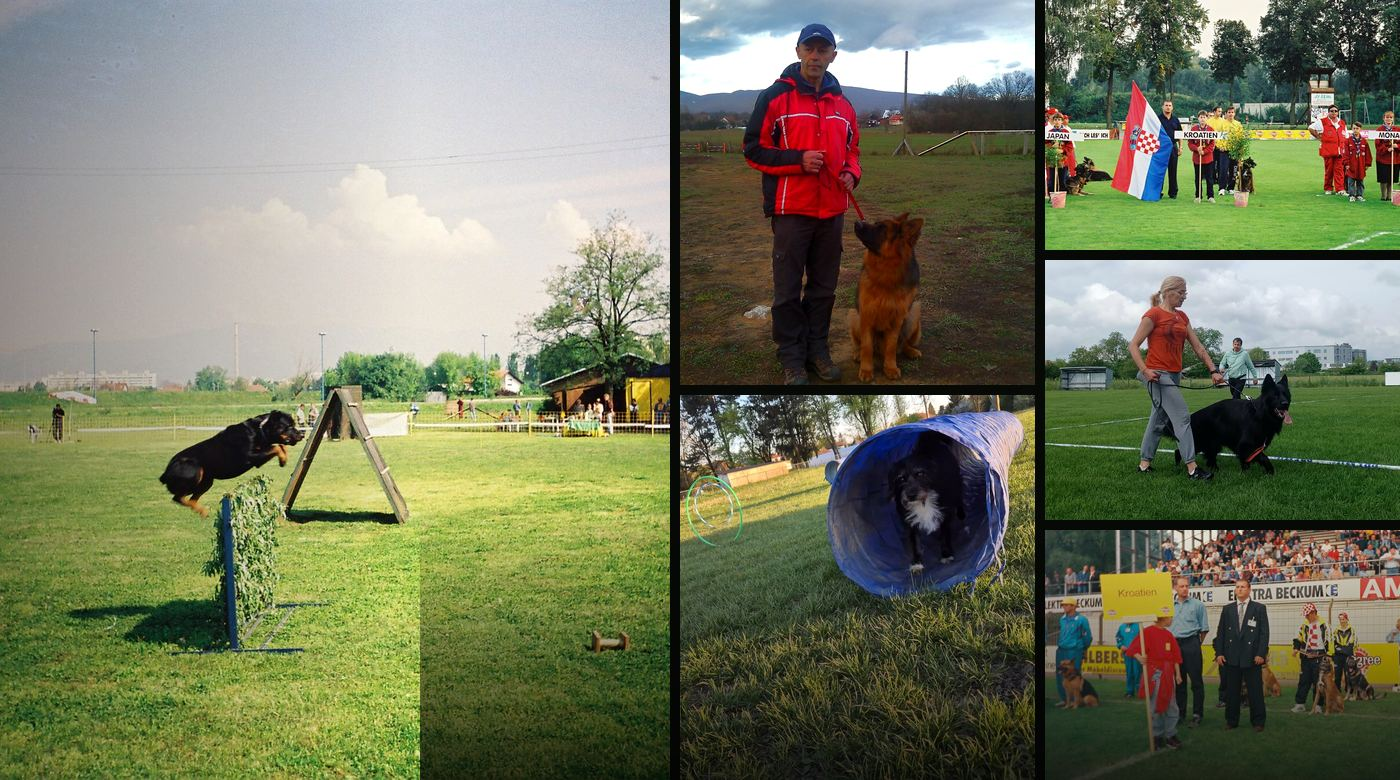
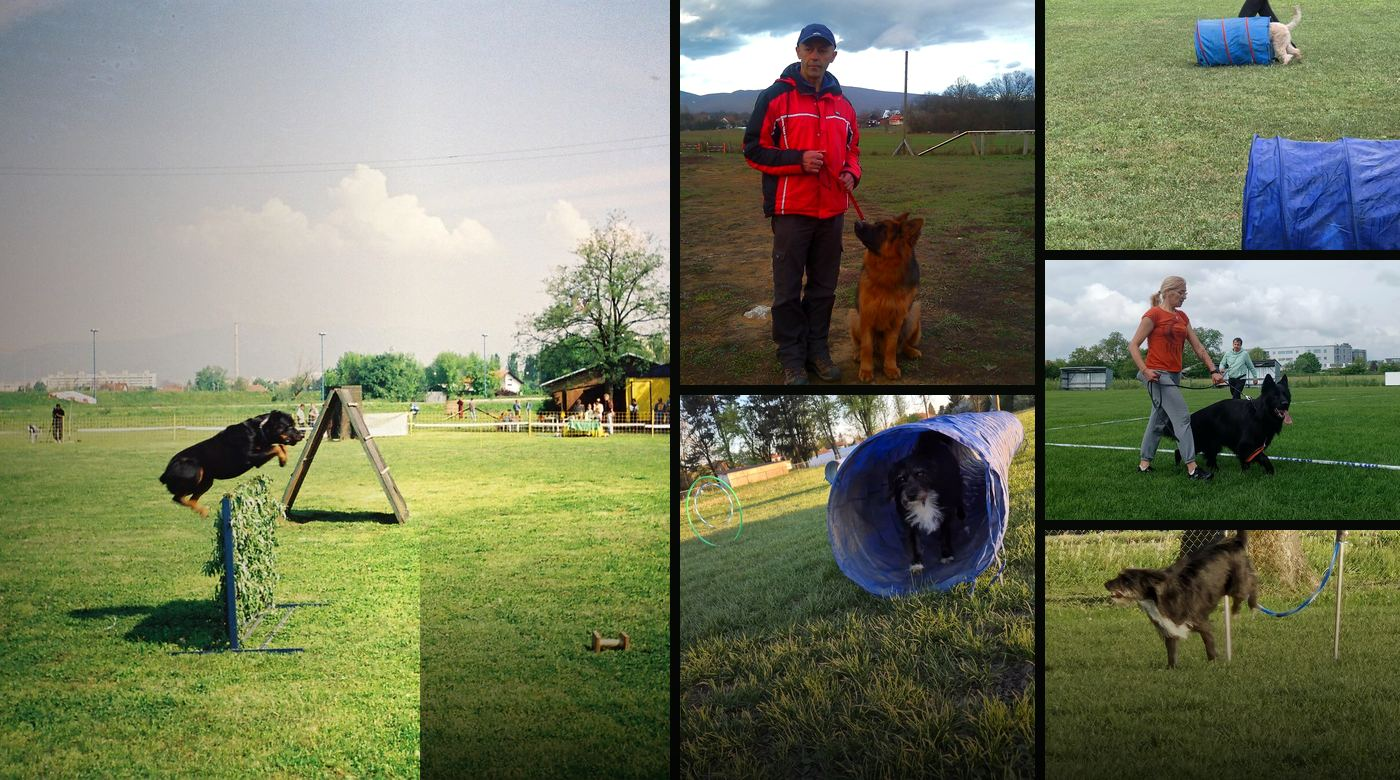
Strengthen hero silhouette, update intro copy, and split gallery into work and owner sections.

Changed region(s): [[0.7371, 0.0, 1.0, 0.3385], [0.7371, 0.6769, 1.0, 0.9846]]

diff --git a/src/components/GalleryGrid.tsx b/src/components/GalleryGrid.tsx
@@ -2,9 +2,13 @@
 
 import { useCallback, useEffect, useId, useState } from "react";
 import { useTranslations } from "next-intl";
-import { galleryImages, type GalleryImage } from "@/data/gallery";
+import type { GalleryImage } from "@/data/gallery";
 
-export function GalleryGrid() {
+type GalleryGridProps = {
+  images: GalleryImage[];
+};
+
+export function GalleryGrid({ images }: GalleryGridProps) {
   const t = useTranslations("gallery");
   const titleId = useId();
   const [active, setActive] = useState<number | null>(null);
@@ -12,12 +16,12 @@ export function GalleryGrid() {
   const close = useCallback(() => setActive(null), []);
   const showPrev = useCallback(() => {
     setActive((i) =>
-      i === null ? null : (i - 1 + galleryImages.length) % galleryImages.length,
+      i === null ? null : (i - 1 + images.length) % images.length,
     );
-  }, []);
+  }, [images.length]);
   const showNext = useCallback(() => {
-    setActive((i) => (i === null ? null : (i + 1) % galleryImages.length));
-  }, []);
+    setActive((i) => (i === null ? null : (i + 1) % images.length));
+  }, [images.length]);
 
   useEffect(() => {
     if (active === null) return;
@@ -38,12 +42,12 @@ export function GalleryGrid() {
   }, [active, close, showPrev, showNext]);
 
   const current: GalleryImage | null =
-    active === null ? null : galleryImages[active];
+    active === null ? null : images[active];
 
   return (
     <>
       <ul className="gallery-grid">
-        {galleryImages.map((image, index) => (
+        {images.map((image, index) => (
           <li key={image.id}>
             <button
               type="button"
@@ -51,14 +55,13 @@ export function GalleryGrid() {
               onClick={() => setActive(index)}
               aria-label={`${t("openImage")} ${index + 1}`}
             >
-              {/* Pre-sized JPEGs — skip /_next/image to avoid optimizer failures */}
               {/* eslint-disable-next-line @next/next/no-img-element */}
               <img
                 src={image.thumb}
                 alt=""
                 width={480}
                 height={360}
-                loading={index < 6 ? "eager" : "lazy"}
+                loading={index < 4 ? "eager" : "lazy"}
                 decoding="async"
               />
             </button>
@@ -113,7 +116,7 @@ export function GalleryGrid() {
               decoding="async"
             />
             <p className="lightbox-count">
-              {active! + 1} / {galleryImages.length}
+              {active! + 1} / {images.length}
             </p>
           </div>
 

diff --git a/src/app/[locale]/galerija/page.tsx b/src/app/[locale]/galerija/page.tsx
@@ -2,6 +2,7 @@ import type { Metadata } from "next";
 import { getTranslations, setRequestLocale } from "next-intl/server";
 import { Link } from "@/i18n/navigation";
 import { GalleryGrid } from "@/components/GalleryGrid";
+import { ownerImages, workImages } from "@/data/gallery";
 
 type GalleryPageProps = {
   params: Promise<{ locale: string }>;
@@ -34,12 +35,25 @@ export default async function GalleryPage({ params }: GalleryPageProps) {
         </p>
 
         <h1 className="section-title reveal mt-4">{t("title")}</h1>
-        <p className="reveal mt-4 max-w-[40rem] text-[1.04rem] leading-[1.7] text-mute">
-          {t("lede")}
-        </p>
 
-        <div className="mt-10">
-          <GalleryGrid />
+        <div className="mt-12">
+          <h2 className="gallery-section-title reveal">{t("workTitle")}</h2>
+          <p className="reveal mt-3 max-w-[40rem] text-[1.04rem] leading-[1.7] text-mute">
+            {t("workLede")}
+          </p>
+          <div className="mt-8">
+            <GalleryGrid images={workImages} />
+          </div>
+        </div>
+
+        <div id="vlasnik" className="mt-16 scroll-mt-28">
+          <h2 className="gallery-section-title reveal">{t("ownerTitle")}</h2>
+          <p className="reveal mt-3 max-w-[40rem] text-[1.04rem] leading-[1.7] text-mute">
+            {t("ownerLede")}
+          </p>
+          <div className="mt-8">
+            <GalleryGrid images={ownerImages} />
+          </div>
         </div>
       </div>
     </section>

diff --git a/src/data/gallery.ts b/src/data/gallery.ts
@@ -6,8 +6,7 @@ export type GalleryImage = {
   height: number;
 };
 
-/** Full images for lightbox; thumbs (~480px) for the grid. */
-export const galleryImages: GalleryImage[] = [
+const all: GalleryImage[] = [
   { id: "gallery-01", src: "/gallery/gallery-01.jpg", thumb: "/gallery/thumbs/gallery-01.jpg", width: 901, height: 1600 },
   { id: "gallery-02", src: "/gallery/gallery-02.jpg", thumb: "/gallery/thumbs/gallery-02.jpg", width: 1600, height: 1071 },
   { id: "gallery-03", src: "/gallery/gallery-03.jpg", thumb: "/gallery/thumbs/gallery-03.jpg", width: 640, height: 402 },
@@ -21,3 +20,26 @@ export const galleryImages: GalleryImage[] = [
   { id: "gallery-11", src: "/gallery/gallery-11.jpg", thumb: "/gallery/thumbs/gallery-11.jpg", width: 1099, height: 595 },
   { id: "gallery-12", src: "/gallery/gallery-12.jpg", thumb: "/gallery/thumbs/gallery-12.jpg", width: 1200, height: 1600 },
 ];
+
+const byId = (ids: string[]) =>
+  ids.map((id) => all.find((img) => img.id === id)!);
+
+/** Tečajevi, ispiti i rad na terenu */
+export const workImages = byId([
+  "gallery-01",
+  "gallery-02",
+  "gallery-04",
+  "gallery-08",
+  "gallery-09",
+  "gallery-10",
+  "gallery-11",
+  "gallery-12",
+]);
+
+/** Povijesne fotografije vlasnika */
+export const ownerImages = byId([
+  "gallery-03",
+  "gallery-05",
+  "gallery-06",
+  "gallery-07",
+]);

diff --git a/src/app/globals.css b/src/app/globals.css
@@ -416,7 +416,7 @@ body::after {
   top: 52%;
   width: min(42rem, 72%);
   transform: translateY(-50%);
-  opacity: 0.11;
+  opacity: 0.18;
   z-index: 0;
 }
 
@@ -428,9 +428,10 @@ body::after {
 
 @media (max-width: 640px) {
   .hero-shadow {
-    width: min(28rem, 85%);
+    width: min(32rem, 92%);
     right: 0;
-    opacity: 0.08;
+    top: 58%;
+    opacity: 0.16;
     transform: translateY(-48%);
   }
 }
@@ -858,6 +859,14 @@ body::after {
 
 .gallery-teaser:hover .gallery-teaser-cta {
   color: var(--brass);
+}
+
+.gallery-section-title {
+  font-family: var(--font-display), sans-serif;
+  font-size: clamp(1.35rem, 2.5vw, 1.75rem);
+  font-weight: 700;
+  letter-spacing: -0.02em;
+  color: var(--bone);
 }
 
 .lightbox {

diff --git a/src/app/[locale]/page.tsx b/src/app/[locale]/page.tsx
@@ -255,6 +255,13 @@ export default async function HomePage({ params }: HomePageProps) {
                     </li>
                   ))}
                 </ul>
+
+                <Link
+                  href="/galerija#vlasnik"
+                  className="relative mt-7 inline-block font-display text-base font-semibold text-brass underline decoration-line underline-offset-4 hover:decoration-brass"
+                >
+                  {gallery("ownerLink")}
+                </Link>
               </div>
             </aside>
           </div>
